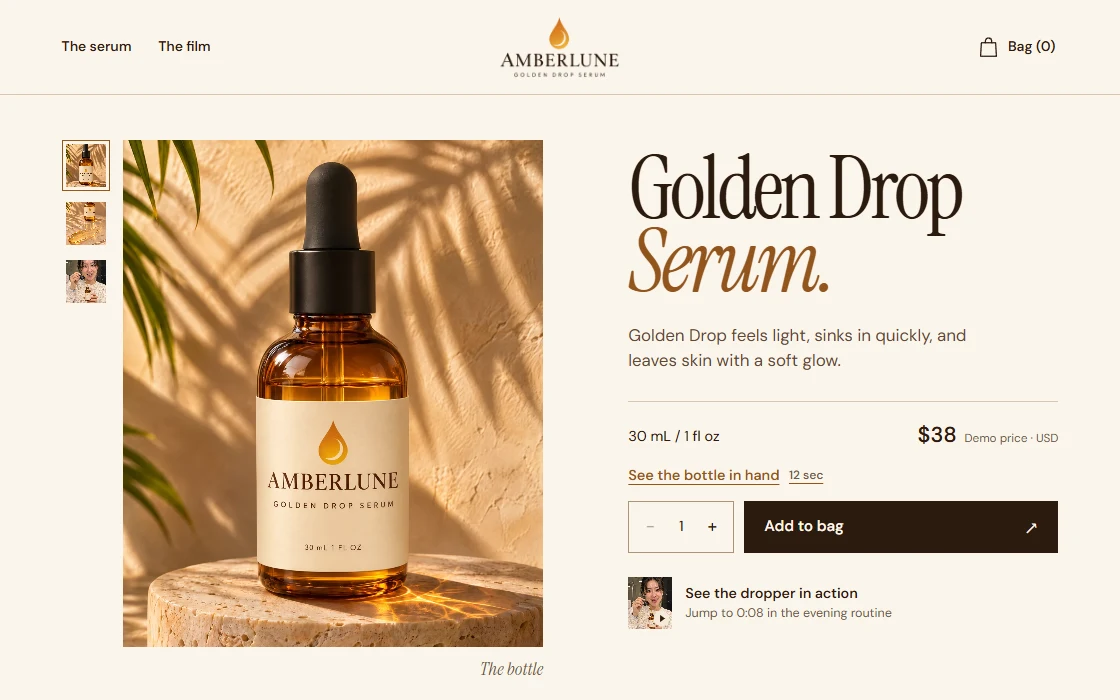
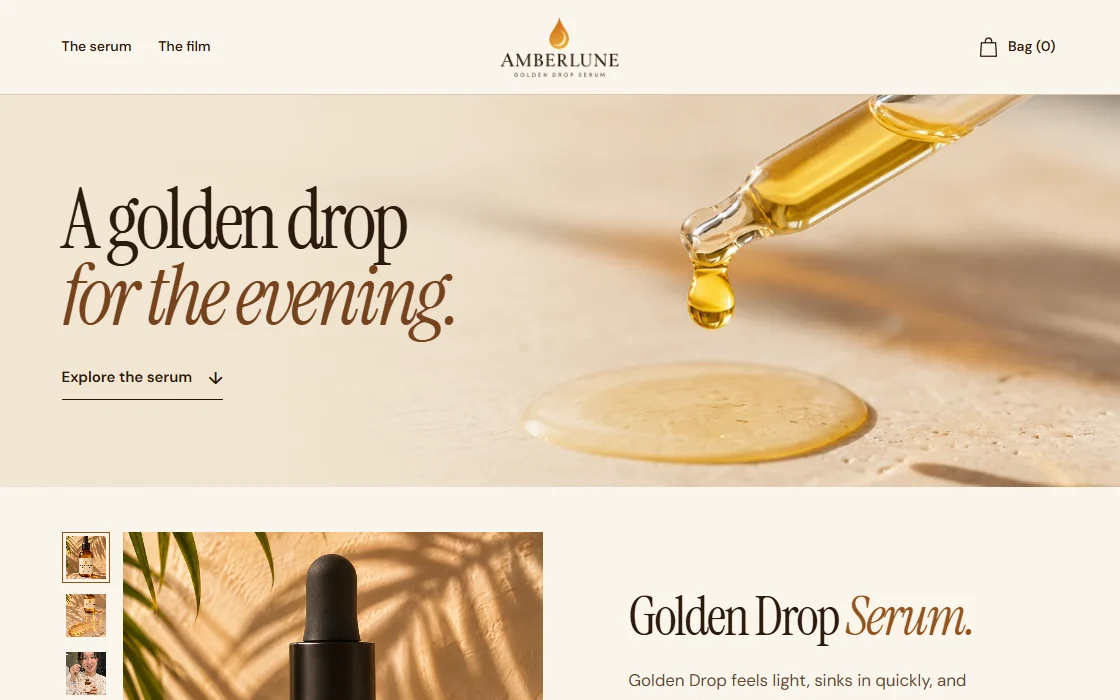
Introduce Amberlune with a honey-gold serum hero

diff --git a/public/work/amberlune/shop.css b/public/work/amberlune/shop.css
@@ -39,8 +39,31 @@ button:disabled { opacity: .4; cursor: default; }
 .mast nav a, .bag-link { display: inline-flex; align-items: center; min-height: 44px; text-decoration: none; font-size: .87rem; font-weight: 550; }
 .mast nav a:hover, .bag-link:hover { color: var(--copper); }
 .bag-link { justify-self: end; gap: 10px; padding: 0 3px; }
+.evening-hero {
+  position: relative; isolation: isolate; display: grid; align-items: center;
+  min-height: clamp(340px, 35vw, 510px); background: #e9d4b9;
+}
+.evening-image, .evening-hero::after { position: absolute; inset: 0; width: 100%; height: 100%; }
+.evening-image { z-index: -2; object-fit: cover; object-position: 62% 51%; }
+.evening-hero::after {
+  content: ""; z-index: -1; pointer-events: none;
+  background: linear-gradient(90deg, #f2e6d3 2%, rgb(242 230 211 / 95%) 25%, rgb(242 230 211 / 68%) 39%, transparent 63%);
+}
+.evening-inner { padding-block: clamp(40px, 5vw, 76px); }
+.evening-inner h1 {
+  width: max-content; max-width: 51%; font: 400 clamp(4rem, 7.4vw, 7.3rem)/.92 var(--serif);
+  letter-spacing: -.045em;
+}
+.evening-inner h1 em { display: block; color: #75431e; font-weight: 400; }
+.explore-serum {
+  display: inline-flex; align-items: center; gap: 1rem; min-height: 44px; margin-top: clamp(20px, 2vw, 32px);
+  border-bottom: 1px solid currentColor; text-decoration: none; font-size: .93rem; font-weight: 600;
+}
+.explore-serum span { font-size: 1.16em; }
+.explore-serum:hover { color: #75431e; }
 .product, .film-grid { display: grid; grid-template-columns: 1.12fr 1fr; gap: clamp(36px, 7.6vw, 122px); align-items: center; }
 .product { padding-block: clamp(30px, 4vw, 60px) clamp(52px, 6vw, 94px); }
+.product:focus { outline: none; }
 .product-gallery, .product-copy, .film-copy { min-width: 0; }
 .main-shot { position: relative; aspect-ratio: .83; background: #dcb484; overflow: hidden; }
 .main-shot img, .detail-image img { width: 100%; height: 100%; object-fit: cover; }
@@ -56,8 +79,8 @@ button:disabled { opacity: .4; cursor: default; }
 #photo-caption { font: italic 1.15rem var(--serif); color: var(--muted); }
 .product-copy { width: 100%; max-width: 456px; margin-bottom: 32px; }
 h1, h2, .bag-product h3, #order-preview h3 { font-family: var(--serif); font-weight: 400; }
-h1 { font-size: clamp(5.4rem, 7.8vw, 7.75rem); line-height: .84; letter-spacing: -.045em; }
-h1 em, .bottle-details em { color: var(--copper); }
+#product-title { font-size: clamp(3.4rem, 4.8vw, 5.2rem); line-height: .98; letter-spacing: -.04em; }
+#product-title em, .bottle-details em { color: var(--copper); }
 .intro { max-width: 32ch; margin-top: clamp(21px, 2.2vw, 34px); font-size: clamp(1.05rem, 1.3vw, 1.25rem); line-height: 1.5; color: #5f4835; }
 .purchase { margin-top: clamp(23px, 2.5vw, 40px); border-top: 1px solid var(--rule); padding-top: 17px; }
 .product-meta, .buy-row, .quantity, .bag-controls, .subtotal { display: flex; align-items: center; }
@@ -152,7 +175,6 @@ body:has(dialog[open]) { overflow: hidden; }
 @media (max-width: 900px) {
   .wrap { width: calc(100% - 56px); }
   .product, .film-grid { gap: 32px; grid-template-columns: 1fr 1fr; }
-  h1 { font-size: clamp(4.7rem, 9.8vw, 6rem); }
   .quantity button { width: 36px; }
   .main-shot { aspect-ratio: .82; }
 }
@@ -165,12 +187,19 @@ body:has(dialog[open]) { overflow: hidden; }
   .mast nav a, .bag-link { font-size: .8rem; }
   .bag-link { gap: 7px; }
   .bag-link svg { width: 16px; }
+  .evening-hero { min-height: clamp(255px, 62vw, 330px); }
+  .evening-hero::after {
+    background: linear-gradient(90deg, #f2e6d3 0%, rgb(242 230 211 / 96%) 29%, rgb(242 230 211 / 75%) 47%, transparent 77%);
+  }
+  .evening-image { object-position: 69% 50%; }
+  .evening-inner { padding-block: 32px; }
+  .evening-inner h1 { max-width: 66%; font-size: clamp(2.7rem, 9.4vw, 4rem); }
+  .explore-serum { margin-top: 12px; font-size: .84rem; gap: .65rem; }
   .product { display: flex; flex-direction: column; align-items: stretch; gap: 0; padding-block: 22px 46px; }
   .product-gallery, .product-copy { display: contents; }
-  .product h1 { order: 0; font-size: clamp(2.9rem, 10.45vw, 4.5rem); line-height: 1.04; margin-bottom: 15px; }
-  .product h1 br { display: none; }
-  .product h1 em::before { content: " "; }
-  .main-shot { order: 1; aspect-ratio: .87; }
+  #product-title { order: 0; font-size: clamp(2.5rem, 9vw, 3.6rem); line-height: 1.04; margin-bottom: 14px; }
+  .main-shot { order: 1; aspect-ratio: .93; }
+  .main-shot img:not([data-current]), .main-shot img[data-current="bottle"] { object-position: 50% 44%; }
   .gallery-line { order: 2; margin-top: 8px; }
   .view { width: 43px; height: 44px; }
   .intro { order: 3; margin-top: 20px; max-width: 36ch; font-size: 1.04rem; }
@@ -192,6 +221,13 @@ body:has(dialog[open]) { overflow: hidden; }
   .details-section { grid-template-columns: 1fr; gap: 22px; padding-block: 48px; }
   .bottle-details h2 { margin-bottom: 21px; }
   .footer .wrap { flex-direction: column; align-items: start; gap: 7px; }
+}
+@media (max-width: 680px) and (max-height: 700px) {
+  .product { padding-top: 10px; }
+  #product-title { margin-bottom: 8px; }
+  .gallery-line { margin-top: 4px; }
+  .purchase { order: 3; margin-top: 10px; padding-top: 8px; }
+  .intro { order: 4; }
 }
 @media (prefers-reduced-motion: no-preference) {
   .primary, .mast a, .view img, .chapters button { transition: background-color .16s, color .16s, opacity .16s; }

diff --git a/public/work/amberlune/index.html b/public/work/amberlune/index.html
@@ -27,10 +27,17 @@
     </div>
   </header>
   <main id="main">
-    <section id="product" class="product wrap" aria-labelledby="product-title">
+    <section id="evening-hero" class="evening-hero" aria-labelledby="evening-title">
+      <img class="evening-image" src="/work/amberlune/assets/evening-drop.webp?v=honey-gold" alt="" fetchpriority="high">
+      <div class="evening-inner wrap">
+        <h1 id="evening-title">A golden drop <em>for the evening.</em></h1>
+        <a class="explore-serum" href="#product">Explore the serum <span aria-hidden="true">↓</span></a>
+      </div>
+    </section>
+    <section id="product" class="product wrap" aria-labelledby="product-title" tabindex="-1">
       <div class="product-gallery">
         <figure class="main-shot">
-          <img id="product-image" src="/work/amberlune/assets/bottle.webp" width="1100" height="1945" alt="Golden Drop Serum in a labeled amber glass bottle on travertine, framed by palm shadows" fetchpriority="high">
+          <img id="product-image" src="/work/amberlune/assets/bottle.webp" width="1100" height="1945" alt="Golden Drop Serum in a labeled amber glass bottle on travertine, framed by palm shadows">
         </figure>
         <div class="gallery-line">
           <div class="views" role="group" aria-label="Product photographs">
@@ -42,7 +49,7 @@
         </div>
       </div>
       <div class="product-copy">
-        <h1 id="product-title">Golden Drop<br><em>Serum.</em></h1>
+        <h2 id="product-title">Golden Drop <em>Serum.</em></h2>
         <p class="intro">Golden Drop feels light, sinks in quickly, and leaves skin with a soft glow.</p>
         <div class="purchase">
           <div class="product-meta"><span>30 mL <span aria-hidden="true">/</span> 1 fl oz</span><span><strong>$38</strong> <small>Demo price · USD</small></span></div>

diff --git a/src/lib/portfolio-projects.ts b/src/lib/portfolio-projects.ts
@@ -70,7 +70,7 @@ export const portfolioProjects: PortfolioProject[] = [
     title: "AMBERLUNE",
     industry: "skincare",
     desc: "See how Golden Drop Serum looks on skin, compare the 30 mL bottle to a lip balm, and try the demo shopping bag.",
-    alt: "AMBERLUNE storefront with an amber glass dropper bottle beside the Golden Drop Serum product details",
+    alt: "Amberlune homepage with a golden serum drop suspended from a glass pipette beside the evening skincare headline",
   },
   {
     slug: "voltloop",
